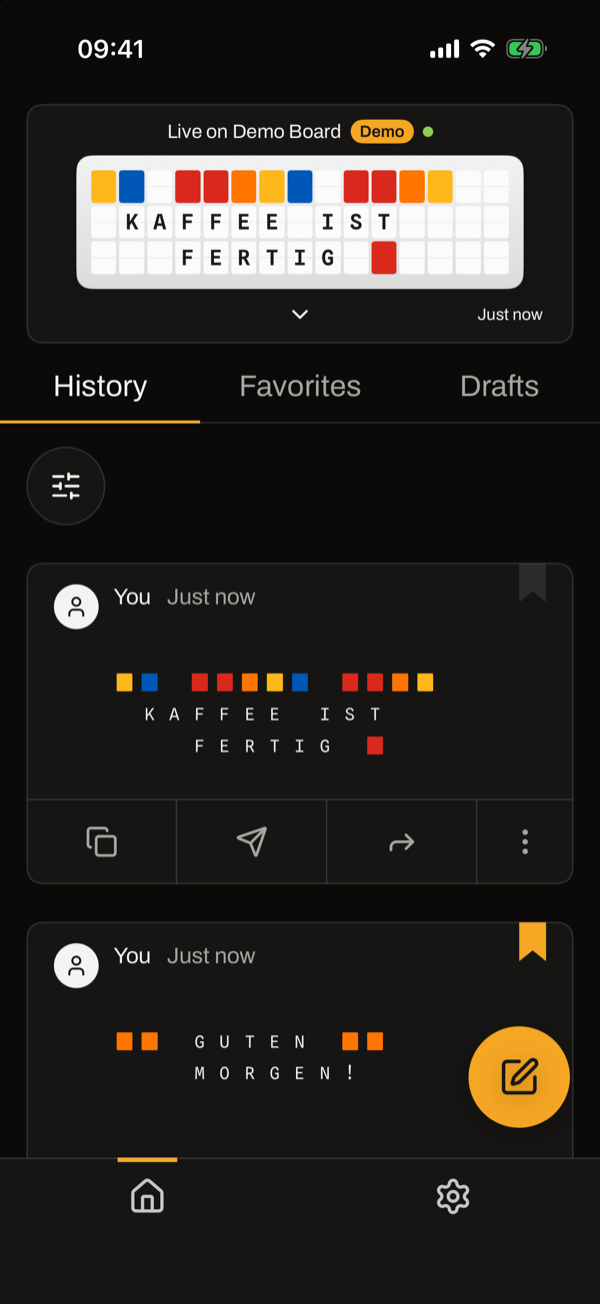
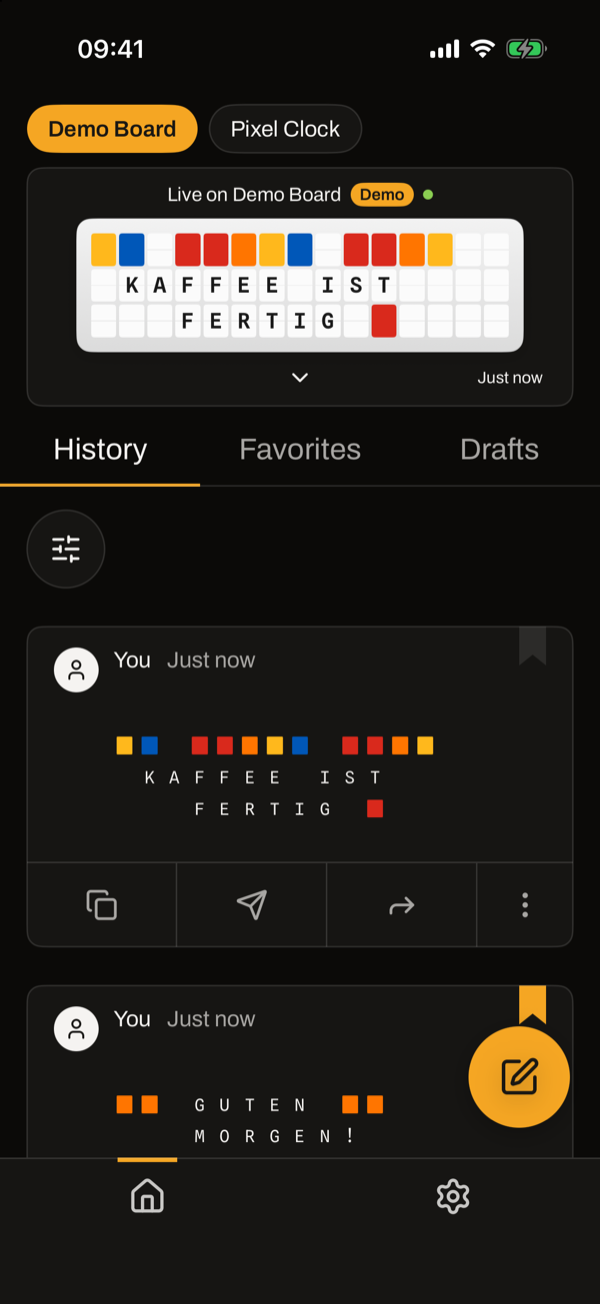
New screenshots: the row of boards, an LED pixel clock beside the demo board, the compose buttons
Claude-Session: https://claude.ai/code/session_01FXXeyGX9nkbXjdAycGNCsJ

diff --git a/FiestaBoard/Demo.swift b/FiestaBoard/Demo.swift
@@ -43,3 +43,31 @@ enum Demo {
         library.sent(sample, text: "KAFFEE IST FERTIG", board: board, boardName: name)
     }
 }
+
+/// A second board for the sample screenshots alone: an LED pixel clock, 3 × 13,
+/// to show the board selector and how an LED panel is drawn.
+actor SampleClock: BoardService {
+    static let shared = SampleClock()
+    static let id = "sample-clock"
+
+    private var characters = Layout.grid("  ES IST\n HALB ZWEI\n{green}{green}{green}{green}{green}{green}{green}{green}{green}{green}{green}{green}{green}", rows: 3, cols: 13).grid
+
+    func boards() async throws -> [BoardSummary] {
+        [BoardSummary(id: Self.id, name: "Pixel Clock", rows: 3, cols: 13, isPrimary: false, paused: false)]
+    }
+
+    func board(_ id: String) async throws -> BoardDetail {
+        BoardDetail(id: Self.id, name: "Pixel Clock", deviceType: "panel", rows: 3, cols: 13, paused: false,
+                    characters: characters, text: nil, resolvedPageId: nil, source: "schedule", overrideExpiresAt: nil)
+    }
+
+    func send(_ text: String, to board: String) async throws -> MessageResponse {
+        characters = Layout.grid(text, rows: 3, cols: 13).grid
+        return MessageResponse(sent: true, characters: characters, reason: nil, held: nil)
+    }
+
+    func send(characters: [[Int]], to board: String) async throws -> MessageResponse {
+        self.characters = characters
+        return MessageResponse(sent: true, characters: characters, reason: nil, held: nil)
+    }
+}

diff --git a/FiestaBoard/HomeView.swift b/FiestaBoard/HomeView.swift
@@ -529,6 +529,9 @@ struct HomeView: View {
         if settings.demoBoard {
             list += (try? await VirtualBoard.shared.boards()) ?? []
         }
+        if Demo.on {
+            list += (try? await SampleClock.shared.boards()) ?? []
+        }
         boards = list
         // The board chosen gone, or not chosen yet: FiestaBoard's primary one, else the first.
         if !list.contains(where: { $0.id == boardID }), let pick = list.first(where: \.isPrimary) ?? list.first {

diff --git a/FiestaBoard/Settings.swift b/FiestaBoard/Settings.swift
@@ -47,6 +47,9 @@ final class Settings {
         if board == VirtualBoard.id {
             return VirtualBoard.shared
         }
+        if Demo.on && board == SampleClock.id {
+            return SampleClock.shared
+        }
         guard let fiestaBoard else {
             throw APIError.badAddress
         }

diff --git a/README.md b/README.md
@@ -12,12 +12,12 @@
 <p align="center">
   <picture>
     <source media="(prefers-color-scheme: dark)" srcset="docs/screenshots/home-dark.png">
-    <img src="docs/screenshots/home-light.png" alt="Home: the board live on a card on top, then History, Favorites and Drafts, with message cards below and the orange button to write" width="200">
+    <img src="docs/screenshots/home-light.png" alt="Home: the row of boards on top, the board live on a card, then History, Favorites and Drafts, with message cards below and the orange button to write" width="200">
   </picture>
   &nbsp;
   <picture>
-    <source media="(prefers-color-scheme: dark)" srcset="docs/screenshots/live-dark.png">
-    <img src="docs/screenshots/live-light.png" alt="The board large: Live on My Board, with the message on a card and buttons to copy and share it" width="200">
+    <source media="(prefers-color-scheme: dark)" srcset="docs/screenshots/clock-dark.png">
+    <img src="docs/screenshots/clock-light.png" alt="A second board, an LED pixel clock, chosen in the row of boards on top and drawn lit on black, with its own history" width="200">
   </picture>
   &nbsp;
   <picture>
@@ -136,10 +136,11 @@ The files in `FiestaBoard/` are the project: Xcode picks up whatever is in the f
 |---|---|
 | `-demo` | Home, with a sample board, history, favorite and draft |
 | `-demo -demoLive` | the board large |
+| `-demo -board sample-clock` | a second board, an LED pixel clock |
 | `-demo -demoCompose` | writing a message |
 | `-demo -demoSettings` | the first start |
 
-All of them run on the demo board alone, with sample content of their own.
+All of them run on the demo board and a sample LED clock beside it, with sample content of their own.
 
 ## Icon, colours, typefaces and icons
 
